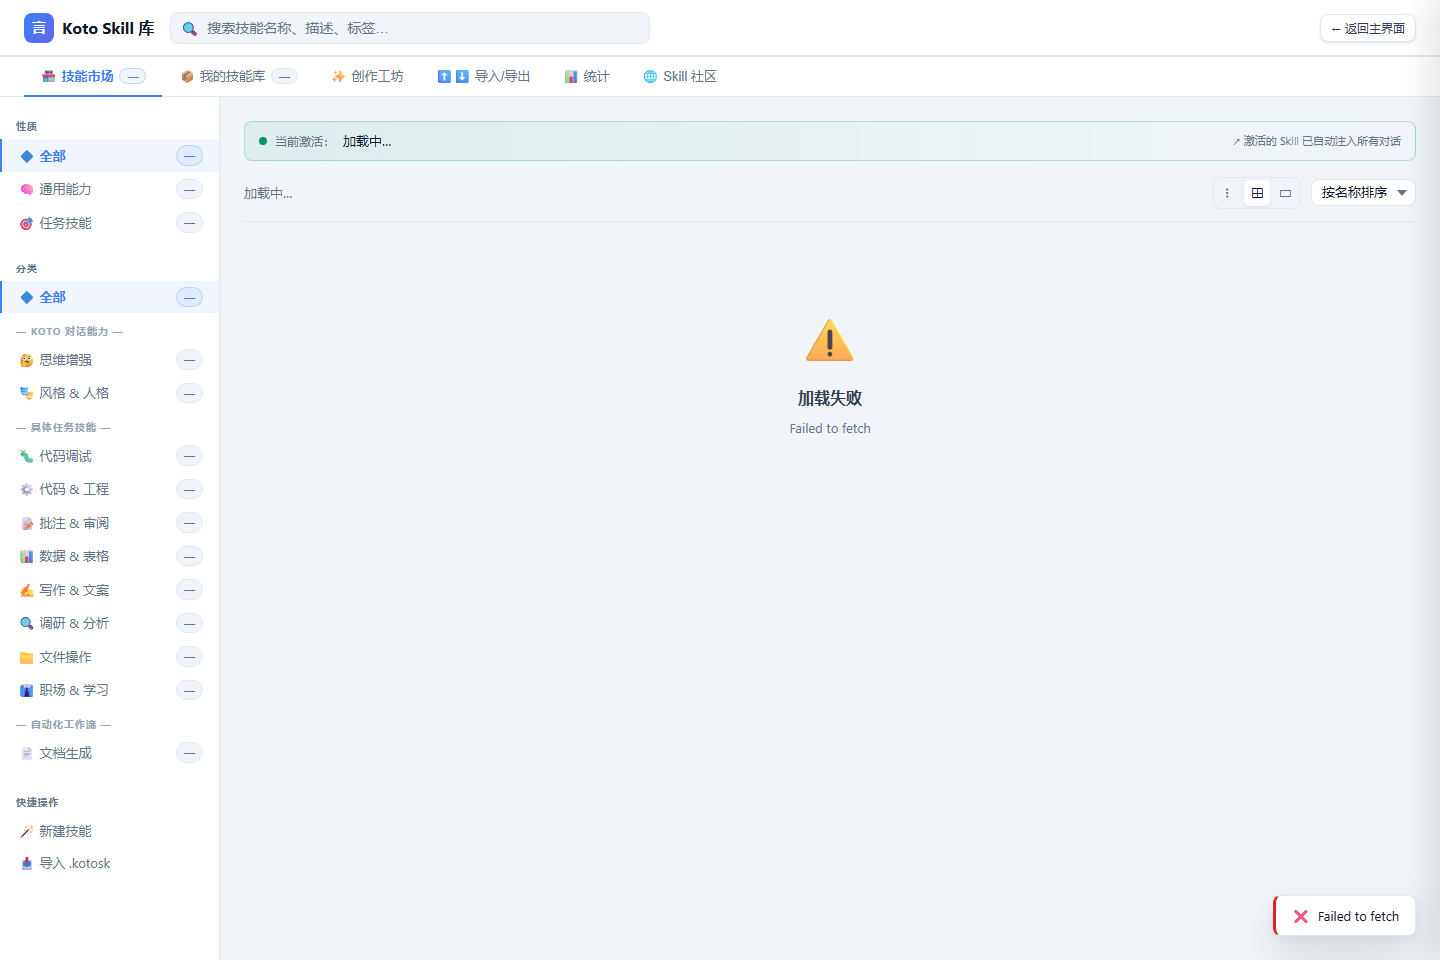
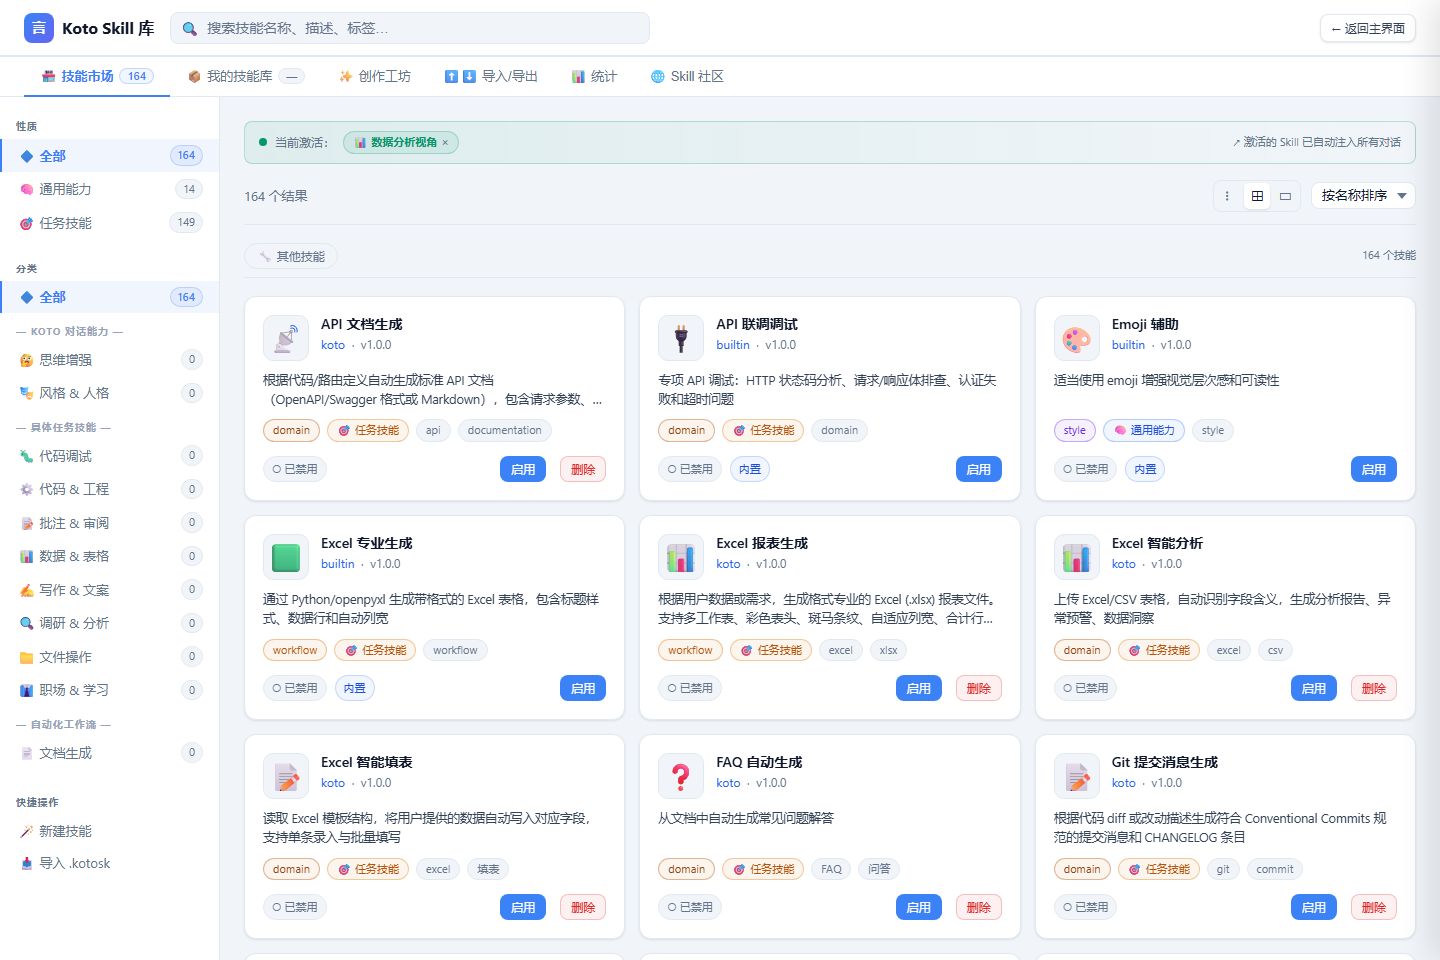
docs: embed screenshots into product story

diff --git a/docs/index.html b/docs/index.html
@@ -323,60 +323,78 @@
         }
         .sample-result strong { color: var(--accent-primary); font-weight: 700; }
 
-        /* ===== SCREENSHOTS ===== */
-        .shots-grid {
-            display: grid;
-            grid-template-columns: repeat(2, minmax(0, 1fr));
-            gap: 20px;
-            margin-top: 52px;
-        }
-        .shot-card {
-            padding: 22px; border-radius: var(--radius-lg);
-            background: var(--bg-card); border: 1px solid var(--border-color);
-            transition: var(--transition);
-        }
-        .shot-card:hover {
-            border-color: var(--border-hover);
-            transform: translateY(-3px);
-            box-shadow: var(--shadow-card);
-        }
-        .shot-card-wide { grid-column: span 2; }
-        .shot-media {
-            display: block;
-            border-radius: 16px;
+        /* ===== PRODUCT STORY ===== */
+        .hero-preview {
+            margin-top: 42px;
+            border-radius: 24px;
             overflow: hidden;
             border: 1px solid rgba(255,255,255,0.08);
             background: linear-gradient(180deg, #101827 0%, #0b111d 100%);
-            box-shadow: 0 20px 40px rgba(0,0,0,0.26);
+            box-shadow: 0 24px 60px rgba(0,0,0,0.32);
         }
-        .shot-media img {
+        .hero-preview img {
             width: 100%;
             display: block;
         }
-        .shot-media-mobile {
-            display: flex;
-            justify-content: center;
+        .story-band {
+            margin-top: 36px;
+            display: grid;
+            grid-template-columns: minmax(0, 1.05fr) minmax(320px, 0.95fr);
+            gap: 28px;
             align-items: center;
-            padding: 20px;
+            padding: 28px;
+            border-radius: var(--radius-xl);
+            background: var(--bg-card);
+            border: 1px solid var(--border-color);
         }
-        .shot-media-mobile img {
-            width: min(100%, 250px);
-            border-radius: 22px;
-            box-shadow: 0 18px 40px rgba(0,0,0,0.32);
+        .story-band.reverse {
+            grid-template-columns: minmax(320px, 0.95fr) minmax(0, 1.05fr);
         }
-        .shot-copy {
-            padding-top: 18px;
-        }
-        .shot-copy h3 {
-            font-size: 19px;
+        .story-copy h3 {
+            font-size: 24px;
             font-weight: 700;
-            letter-spacing: -0.2px;
-            margin-bottom: 10px;
+            margin-bottom: 12px;
+            letter-spacing: -0.3px;
         }
-        .shot-copy p {
+        .story-copy p {
             color: var(--text-secondary);
             font-size: 15px;
-            line-height: 1.7;
+            line-height: 1.8;
+            margin-bottom: 18px;
+        }
+        .story-points {
+            display: flex;
+            flex-wrap: wrap;
+            gap: 10px;
+        }
+        .story-points span {
+            padding: 8px 12px;
+            border-radius: 999px;
+            background: rgba(255,255,255,0.03);
+            border: 1px solid var(--border-color);
+            color: var(--text-primary);
+            font-size: 13px;
+            font-weight: 500;
+        }
+        .story-media {
+            display: block;
+            border-radius: 18px;
+            overflow: hidden;
+            border: 1px solid rgba(255,255,255,0.08);
+            background: linear-gradient(180deg, #101827 0%, #0b111d 100%);
+            box-shadow: 0 20px 44px rgba(0,0,0,0.28);
+        }
+        .story-media img {
+            width: 100%;
+            display: block;
+        }
+        .story-media-mobile {
+            max-width: 300px;
+            margin: 0 auto;
+        }
+        .story-media-mobile img {
+            border-radius: 24px;
+            box-shadow: 0 18px 40px rgba(0,0,0,0.32);
         }
 
         /* ===== STATS ===== */
@@ -538,8 +556,8 @@
             .download-inner { grid-template-columns: 1fr; gap: 40px; }
             .steps-row { grid-template-columns: 1fr; }
             .samples-grid { grid-template-columns: 1fr; }
-            .shots-grid { grid-template-columns: 1fr; }
-            .shot-card-wide { grid-column: span 1; }
+            .story-band,
+            .story-band.reverse { grid-template-columns: 1fr; }
             .stat { border-right: none; border-bottom: 1px solid var(--border-color); padding: 40px 32px; }
             .stat:last-child { border-bottom: none; }
         }
@@ -567,7 +585,6 @@
         <div class="nav-links">
             <a href="#marketplace">技能系统</a>
             <a href="#features">核心能力</a>
-            <a href="#screenshots">截图预览</a>
             <a href="#samples">场景样例</a>
             <a href="#activation">快速上手</a>
             <a href="#download">下载</a>
@@ -603,59 +620,9 @@
                 <span>🧩 90+ AI 技能</span>
                 <span>⚙ 工作流引擎</span>
             </div>
-        </div>
-    </section>
-
-    <!-- ===== SCREENSHOTS ===== -->
-    <section id="screenshots">
-        <div class="section-wrap">
-            <div style="text-align:center;max-width:760px;margin:0 auto;">
-                <div class="section-label" style="display:inline-flex;">🖼 真实截图</div>
-                <h2 class="section-title" style="text-align:center;">打开之后是什么样<br>这里直接给你看</h2>
-                <p class="section-desc" style="margin:0 auto;text-align:center;max-width:760px;">以下图片来自本地运行中的 Koto 实际界面，覆盖主对话区、文件工作站、技能市场和移动端模式，访问者能更直观看到产品完成度。</p>
-            </div>
-
-            <div class="shots-grid">
-                <article class="shot-card shot-card-wide">
-                    <a class="shot-media" href="assets/screenshots/koto-main-chat.png" target="_blank" rel="noopener">
-                        <img src="assets/screenshots/koto-main-chat.png" alt="Koto 主界面对话与技能工作台截图" loading="lazy">
-                    </a>
-                    <div class="shot-copy">
-                        <h3>主界面 · 对话、技能、工作区三位一体</h3>
-                        <p>侧边栏会话管理、技能库、文件助手与中央对话区自然整合，适合展示 Koto 不只是聊天，而是一个可以持续工作的桌面 AI 工作台。</p>
-                    </div>
-                </article>
-
-                <article class="shot-card">
-                    <a class="shot-media" href="assets/screenshots/koto-workspace-assistant.png" target="_blank" rel="noopener">
-                        <img src="assets/screenshots/koto-workspace-assistant.png" alt="Koto 文件工作站截图" loading="lazy">
-                    </a>
-                    <div class="shot-copy">
-                        <h3>文件工作站 · 面向文档流转设计</h3>
-                        <p>本地文件浏览、临时工作区、文档类型过滤和右侧 AI 助手同时可见，能很好传达 Word、Excel、PPT、PDF 等文件处理场景。</p>
-                    </div>
-                </article>
-
-                <article class="shot-card">
-                    <a class="shot-media" href="assets/screenshots/koto-skill-marketplace.png" target="_blank" rel="noopener">
-                        <img src="assets/screenshots/koto-skill-marketplace.png" alt="Koto 技能市场截图" loading="lazy">
-                    </a>
-                    <div class="shot-copy">
-                        <h3>技能市场 · 90+ 能力可见可扩展</h3>
-                        <p>把技能分类、创作工坊和社区入口直接展示出来，更容易让新用户理解 Koto 的扩展能力和长期使用价值。</p>
-                    </div>
-                </article>
-
-                <article class="shot-card">
-                    <a class="shot-media shot-media-mobile" href="assets/screenshots/koto-mobile.png" target="_blank" rel="noopener">
-                        <img src="assets/screenshots/koto-mobile.png" alt="Koto 移动端界面截图" loading="lazy">
-                    </a>
-                    <div class="shot-copy">
-                        <h3>移动端模式 · 更轻更快的随手入口</h3>
-                        <p>补充展示 Koto 在窄屏设备上的信息密度与交互布局，适合强调多端可用和轻量访问体验。</p>
-                    </div>
-                </article>
-            </div>
+            <a class="hero-preview fade-up fade-up-4" href="assets/screenshots/koto-main-chat.png" target="_blank" rel="noopener">
+                <img src="assets/screenshots/koto-main-chat.png" alt="Koto 主界面对话与技能工作台截图">
+            </a>
         </div>
     </section>
 
@@ -788,6 +755,22 @@
                     <a href="https://github.com/Loganwon/Koto" class="btn btn-ghost" target="_blank" rel="noopener">查看源码</a>
                 </div>
             </div>
+
+            <div class="story-band reverse">
+                <a class="story-media" href="assets/screenshots/koto-skill-marketplace.png" target="_blank" rel="noopener">
+                    <img src="assets/screenshots/koto-skill-marketplace.png" alt="Koto 技能市场截图" loading="lazy">
+                </a>
+                <div class="story-copy">
+                    <h3>让访问者直接看见技能生态</h3>
+                    <p>在介绍技能系统时直接展示真实的技能市场界面，比单纯列能力更容易建立信任。用户能马上理解 Koto 不是只有几个固定按钮，而是一个可扩展、可持续积累的 AI 办公平台。</p>
+                    <div class="story-points">
+                        <span>90+ 内置技能</span>
+                        <span>分类清晰</span>
+                        <span>支持创作工坊</span>
+                        <span>持续扩展</span>
+                    </div>
+                </div>
+            </div>
         </div>
     </section>
 
@@ -850,6 +833,22 @@
                     <h3>代码沙箱 · 多文件协同</h3>
                     <p>安全沙箱执行 Python 脚本，支持图表输出。多文件协同处理器可跨 DOCX/XLSX/PPTX 批量操作，定时任务全程自动化。</p>
                 </div>
+            </div>
+
+            <div class="story-band">
+                <div class="story-copy">
+                    <h3>工作区、文件助手与 AI 对话放在一起</h3>
+                    <p>这张文件工作站截图更适合放在核心能力部分：它把本地文件浏览、工作区整理、右侧 AI 助手与当前任务界面串到一起，准确传达 Koto 的核心体验是“围绕文件工作”，而不是单独聊天。</p>
+                    <div class="story-points">
+                        <span>本地文件浏览</span>
+                        <span>临时工作区</span>
+                        <span>AI 侧栏协作</span>
+                        <span>面向真实办公流</span>
+                    </div>
+                </div>
+                <a class="story-media" href="assets/screenshots/koto-workspace-assistant.png" target="_blank" rel="noopener">
+                    <img src="assets/screenshots/koto-workspace-assistant.png" alt="Koto 文件工作站截图" loading="lazy">
+                </a>
             </div>
         </div>
     </section>
@@ -980,6 +979,22 @@
                         <div class="wc-id">18913921188</div>
                     </div>
                 </div>
+            </div>
+
+            <div class="story-band" style="margin-top:28px;">
+                <div class="story-copy">
+                    <h3>移动端也能快速进入工作状态</h3>
+                    <p>在“快速上手”部分补充移动端截图，可以告诉新用户 Koto 不只适合桌面重度场景，也适合临时查看对话、快速触发技能、随手继续未完成任务，让首次访问者对使用方式有更完整的想象。</p>
+                    <div class="story-points">
+                        <span>窄屏适配</span>
+                        <span>随手继续任务</span>
+                        <span>轻量访问</span>
+                        <span>多端一致体验</span>
+                    </div>
+                </div>
+                <a class="story-media story-media-mobile" href="assets/screenshots/koto-mobile.png" target="_blank" rel="noopener">
+                    <img src="assets/screenshots/koto-mobile.png" alt="Koto 移动端界面截图" loading="lazy">
+                </a>
             </div>
         </div>
     </section>
